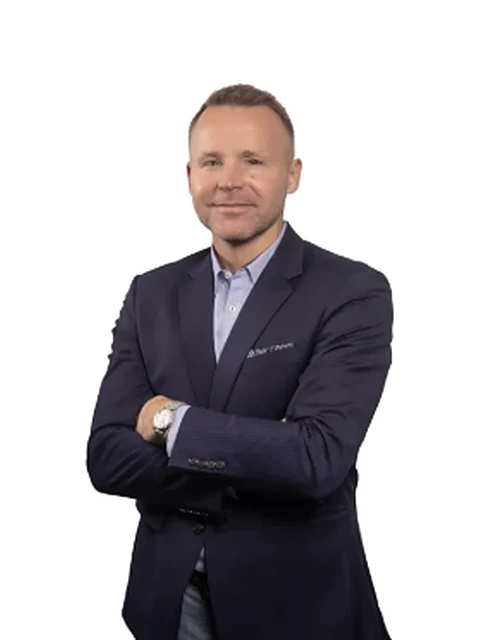
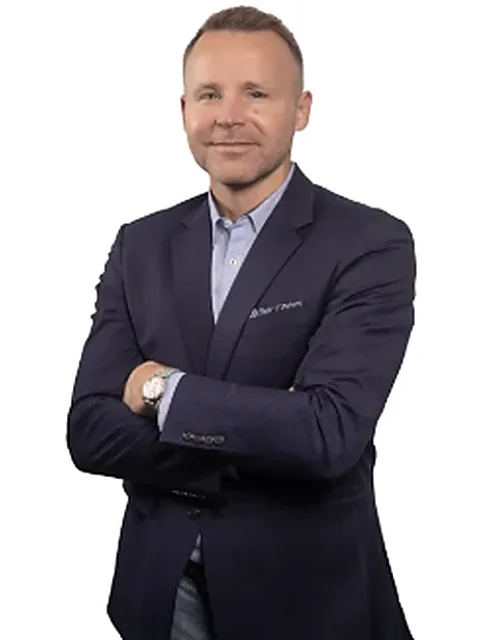
Söluaðilar: Ingimundur stækkaður í myndinni svo hann standi jafnhátt hinum

Changed region(s): [[0.125, 0.0, 0.875, 1.0], [0.3438, 0.7812, 0.4688, 1.0]]

diff --git a/index.html b/index.html
@@ -235,7 +235,7 @@
           </div>
           <div class="sellers__grid" data-block="agents">
             <article class="agent" data-block="agent1">
-              <div class="agent__avatar"><img data-img="img.ag1" loading="lazy" decoding="async" src="assets/agents/ingimundur.webp?m=1" alt="Ingimundur Kristján Ingimundarson" /></div>
+              <div class="agent__avatar"><img data-img="img.ag1" loading="lazy" decoding="async" src="assets/agents/ingimundur.webp?m=2" alt="Ingimundur Kristján Ingimundarson" /></div>
               <h3 class="agent__name" data-i18n="ag.1.name">Ingimundur Kristján Ingimundarson</h3>
               <p class="agent__title" data-i18n="ag.1.title">Löggiltur fasteigna- og skipasali</p>
               <a class="agent__line" data-i18n="ag.1.phone" href="tel:+3548674540">867‑4540</a>
